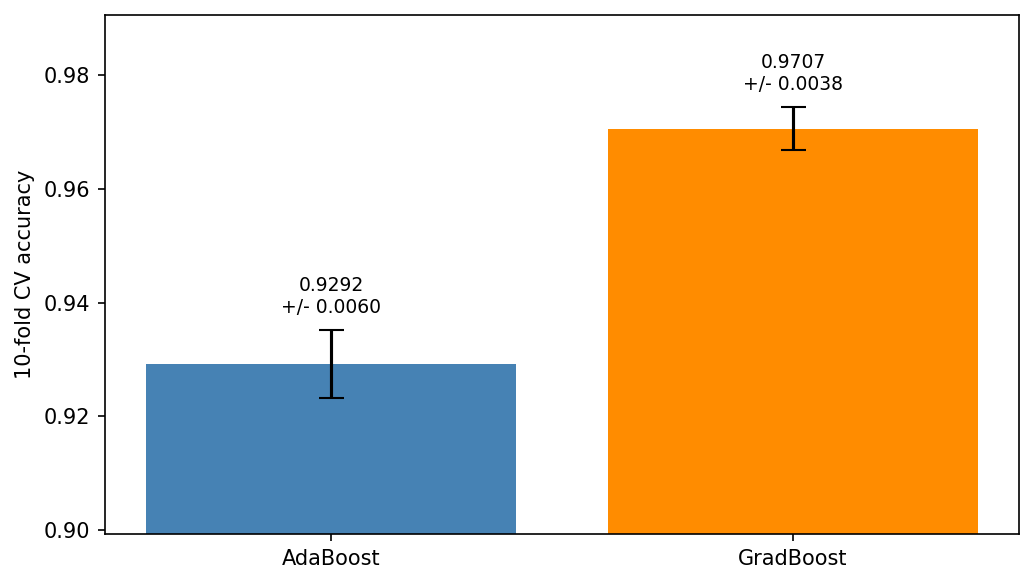
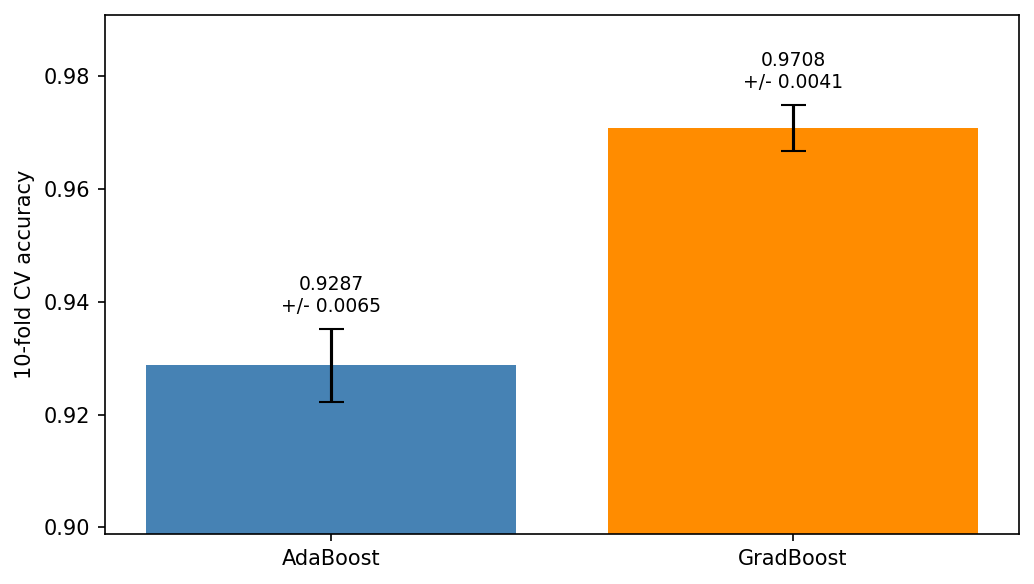
k-fold cross validation

diff --git a/README.md b/README.md
@@ -16,7 +16,7 @@ Punzi FOM finds the threshold that actually minimises experiment runtime instead
 
 at the Punzi-optimal working point (BDT score ≥ 0.626): signal efficiency 59.0%, background efficiency 0.72%. The reduced signal yield is more than compensated for by ~10× stronger background rejection, giving a median 1-year significance of ~10.9σ and a minimum experiment duration of ~0.5 years for a 95% 5σ discovery probability (vs ~0.6 yr at the baseline hard-cut threshold).
 
-A gradient-boosted classifier with 10-fold stratified cross-validation reaches 97.1% CV accuracy (vs 92.9% for AdaBoost). At its Punzi-optimal threshold (BDT score ≥ 0.957) it gives signal efficiency 70.8%, background efficiency 0.12%, median 1-year significance ~13.5σ, and T95 ~0.3 yr:
+A gradient-boosted classifier with 10-fold cross-validation reaches 97.1% CV accuracy (vs 92.9% for AdaBoost). At its Punzi-optimal threshold (BDT score ≥ 0.957) it gives signal efficiency 70.8%, background efficiency 0.12%, median 1-year significance ~13.5σ, and T95 ~0.3 yr:
 
 ![CV comparison](plots/cv_comparison.png)
 ![Improved Punzi](plots/punzi_improved.png)
@@ -33,7 +33,7 @@ run the notebooks in order:
 2. `selection.ipynb` — rectangular cuts on top 3 features
 3. `bdt.ipynb` — train AdaBoost, apply selection
 4. `extensions/punzi_fom.ipynb` — Punzi FOM threshold scan on the AdaBoost scores (writes Punzi efficiencies back into `bdt_results.json`)
-5. `extensions/classifier_improvements.ipynb` — gradient boosting with 10-fold stratified CV, Punzi scan on the improved scores (writes improved-Punzi efficiencies into `bdt_results.json`)
+5. `extensions/classifier_improvements.ipynb` — gradient boosting with 10-fold CV, Punzi scan on the improved scores (writes improved-Punzi efficiencies into `bdt_results.json`)
 6. `mass_fit.ipynb` — background fit, toy MC, discovery duration (prefers improved-Punzi, then baseline-Punzi, then baseline hard cut)
 7. `extensions/wilks_validation.ipynb` — Wilks' theorem validity check with H0 toys
 
